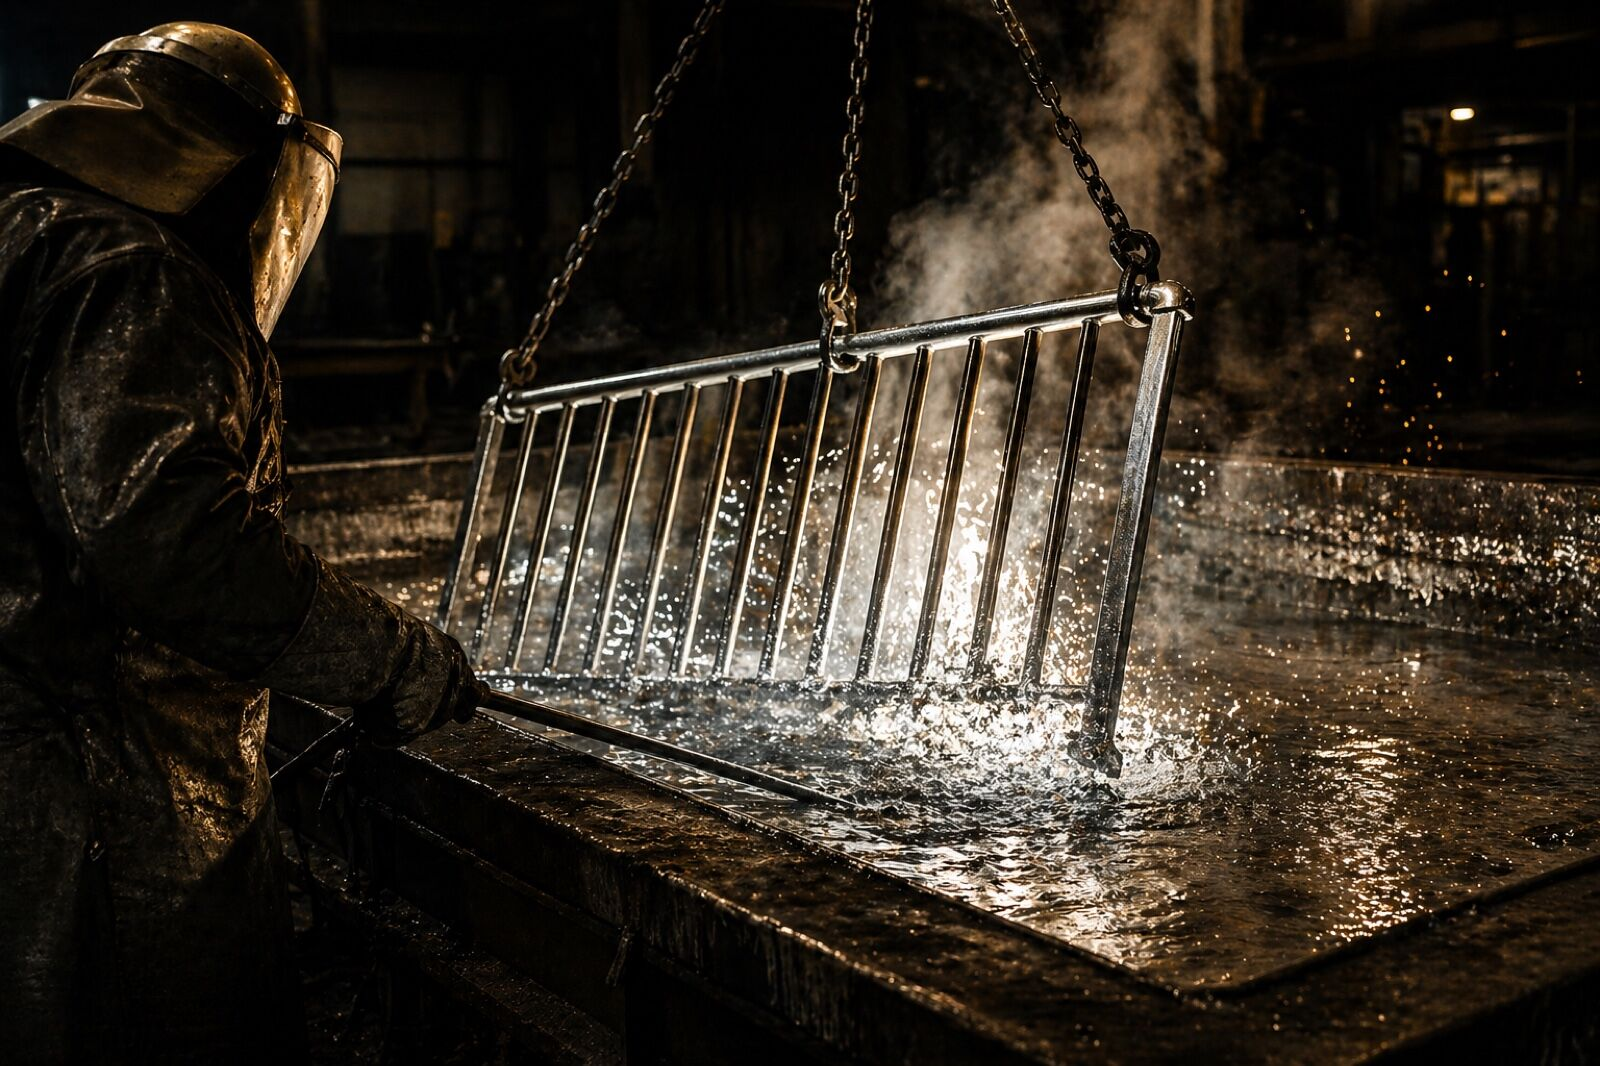
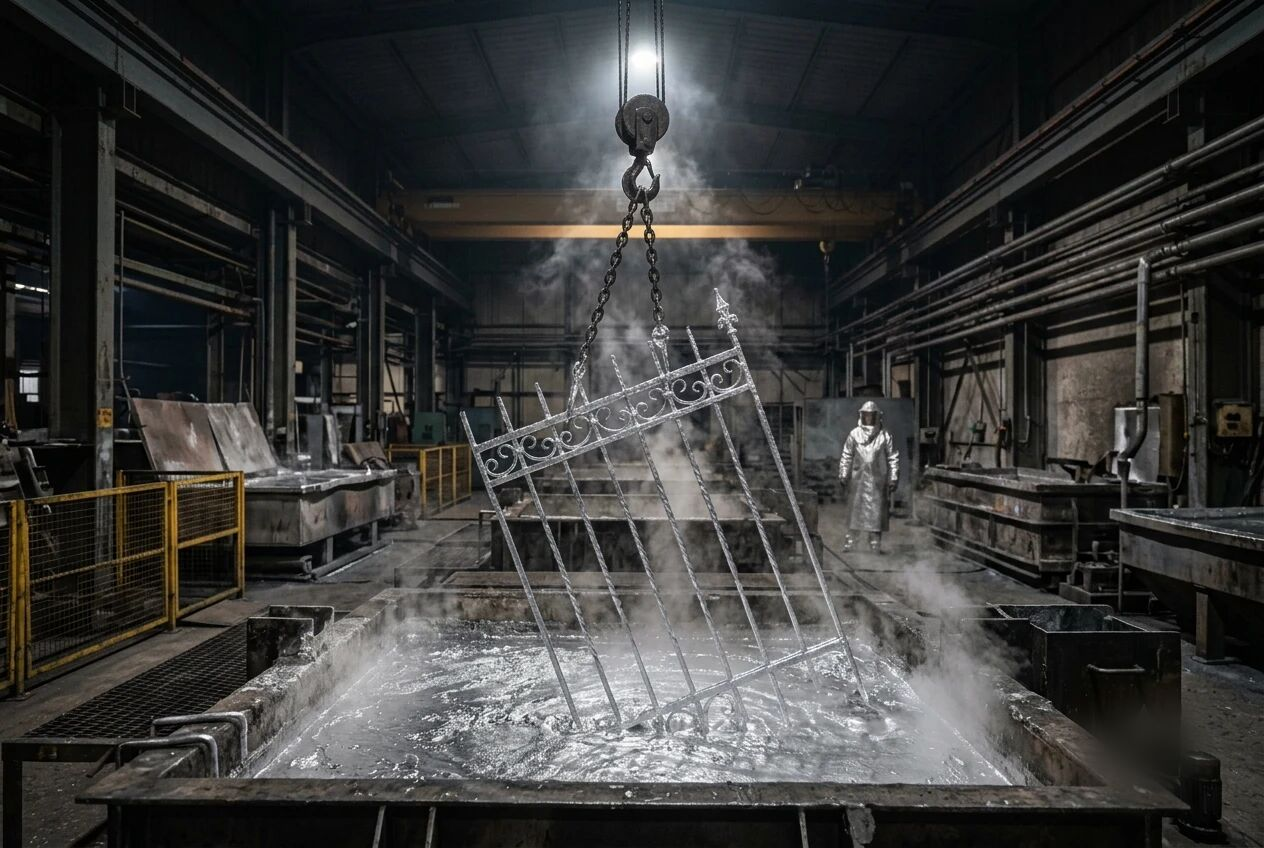
feat(quality): galvanizing-hero・paint-process-3step をGemini再生成版に差し替え（画像指示書 依頼2・4）
- galvanizing-hero.jpg: 亜鉛浴に装飾格子を吊り下げ浸漬する実写級カット。文字要素なし
- paint-process-3step.jpg: 研磨→調合→吹き付けの3パネル。文字要素なし
- 両画像ともGeminiの可視透かし（右下✦）を除去
  - galvanizing: 局所ぼかし合成（周辺が暗部・低ディテールなためクローンより自然に馴染む）
  - 3step: 近傍クリーンパッチのクローン合成
- galvanizing alt文言を実際の被写体（装飾格子）に合わせて微調整
- 規定圧縮済み: 各1264x848 JPEG q80・192KB（500KB以下✓）

依頼3（paintヒーロー）は保留 — 受領画像の壁面サイン文字に誤字（"paird color codes"・崩れた日本語）があり未使用。

diff --git a/v0-design/app/galvanizing/page.tsx b/v0-design/app/galvanizing/page.tsx
@@ -1007,7 +1007,7 @@ export default function GalvanizingPage() {
             <div className="lg:col-span-6 relative aspect-[3/2] lg:aspect-auto bg-secondary">
               <Image
                 src="/images/process/galvanizing-hero.jpg"
-                alt="450℃ の亜鉛浴に鉄製手すりを浸漬している様子"
+                alt="450℃ の亜鉛浴に鉄製フレームを浸漬している様子"
                 fill
                 sizes="(max-width: 1024px) 100vw, 60vw"
                 priority
